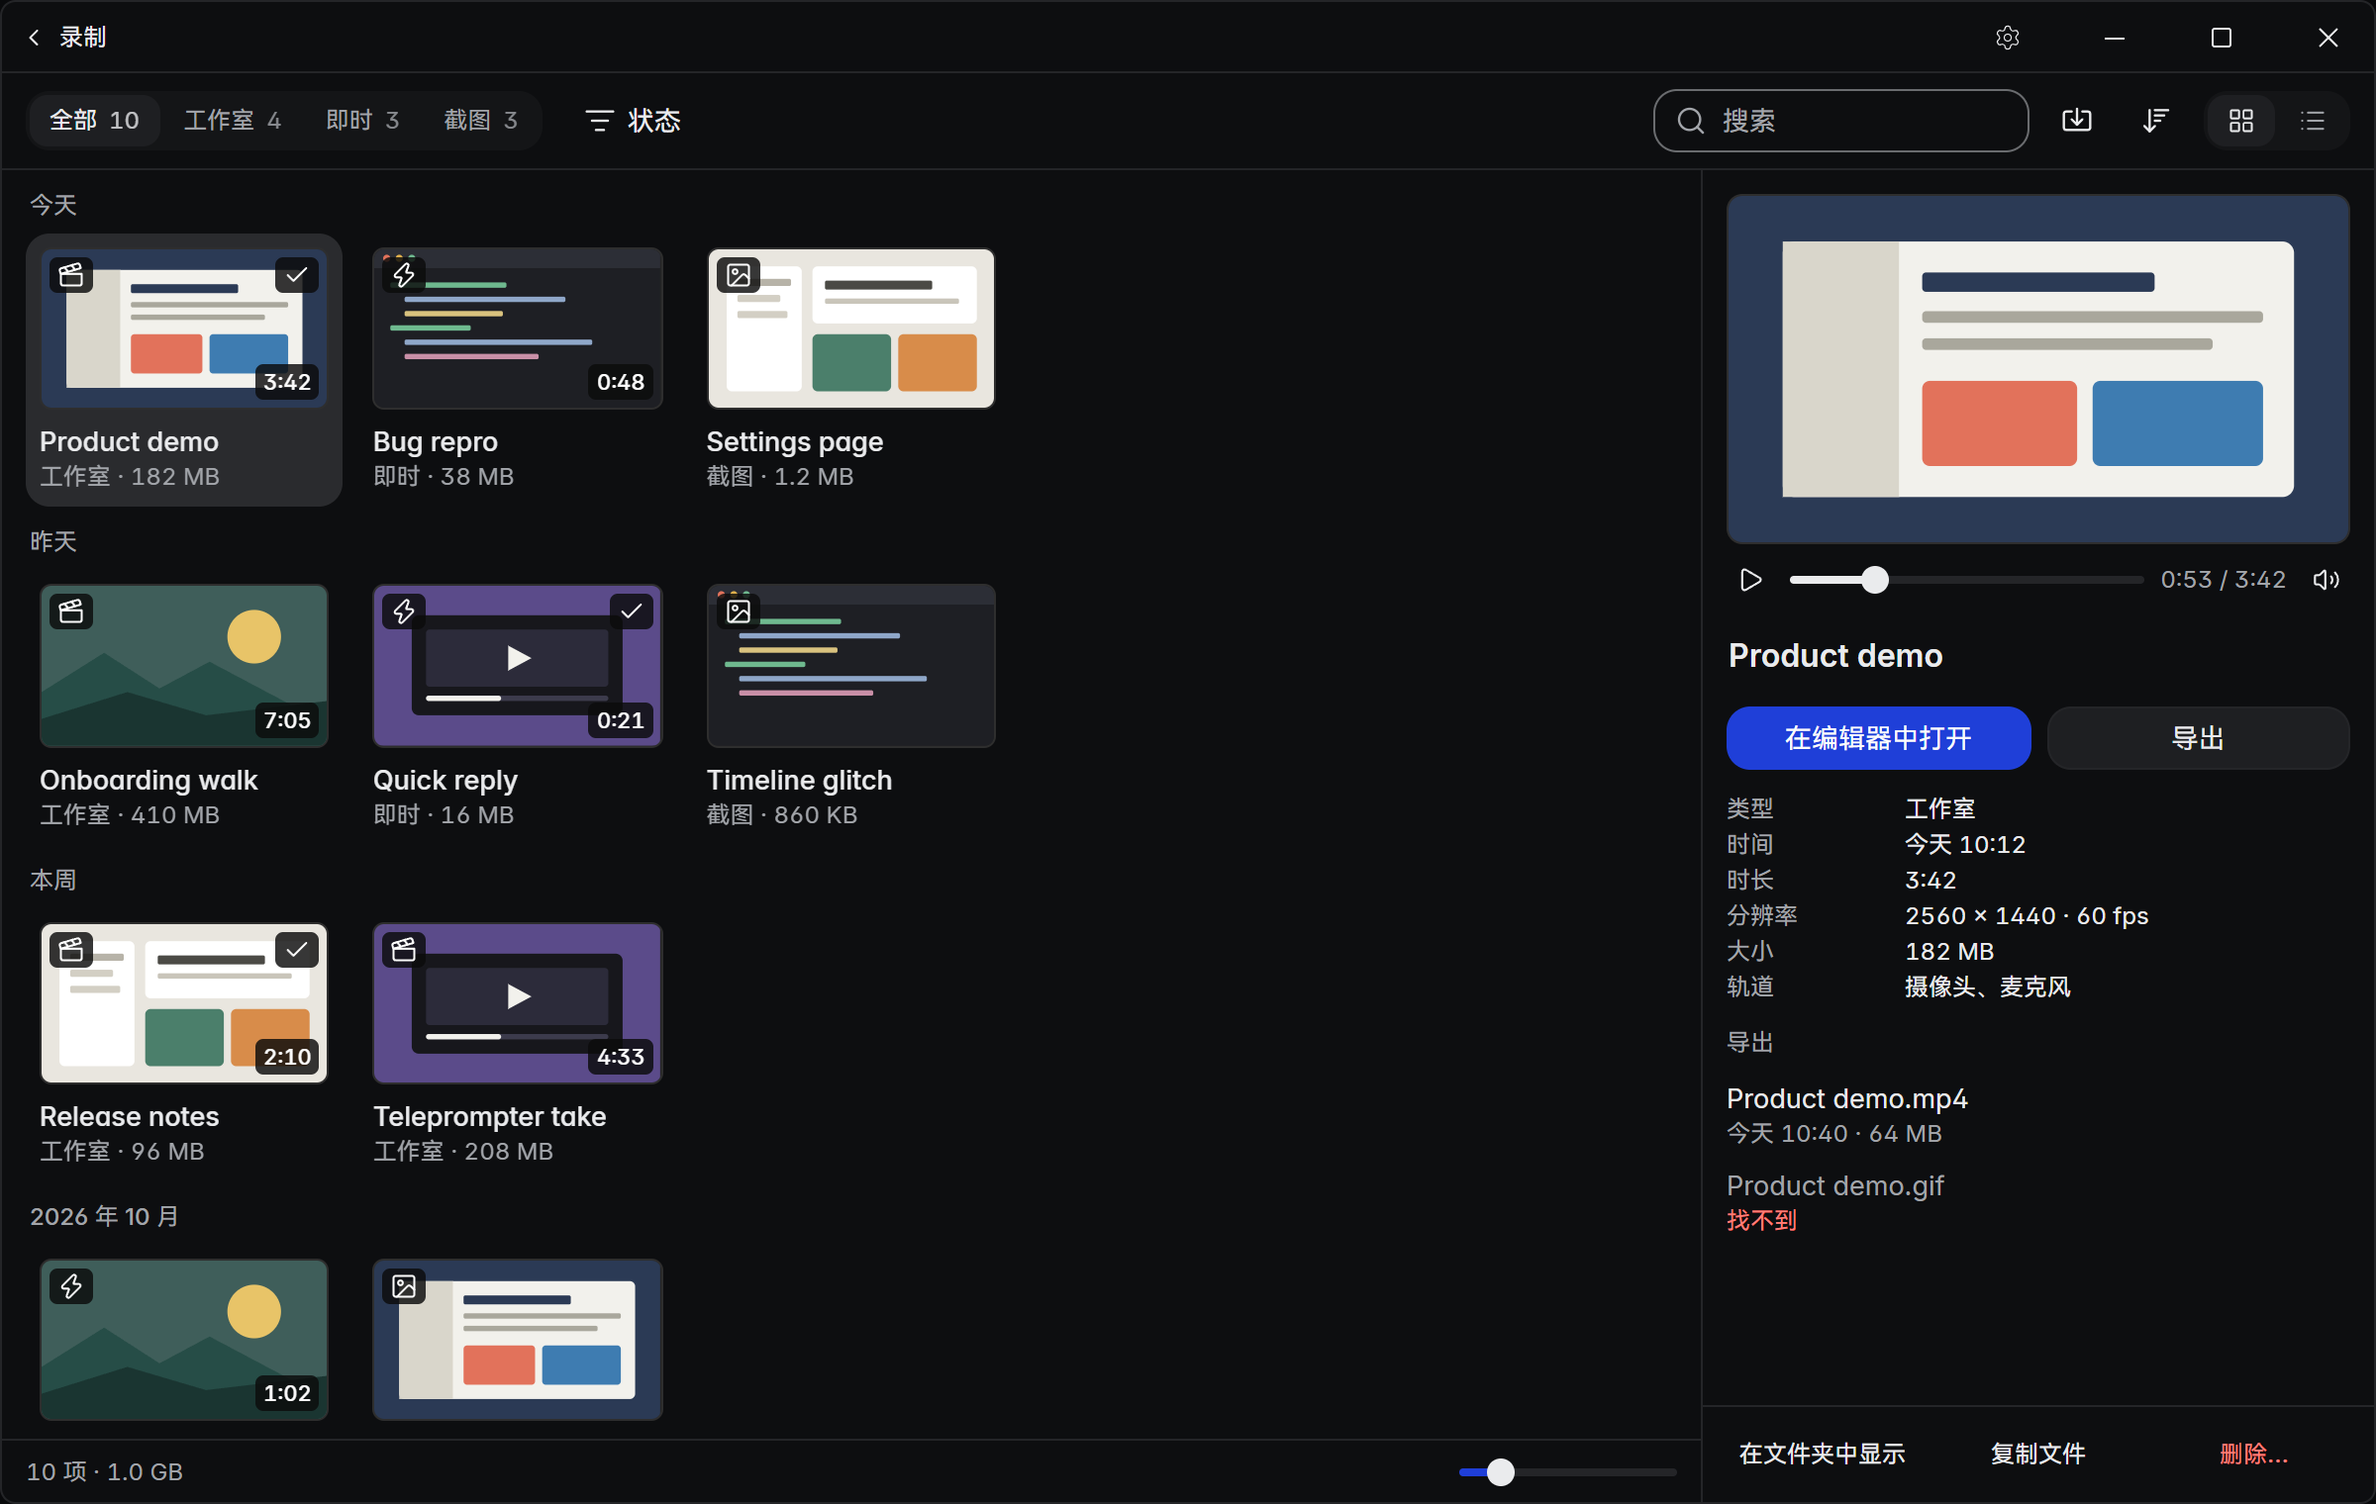
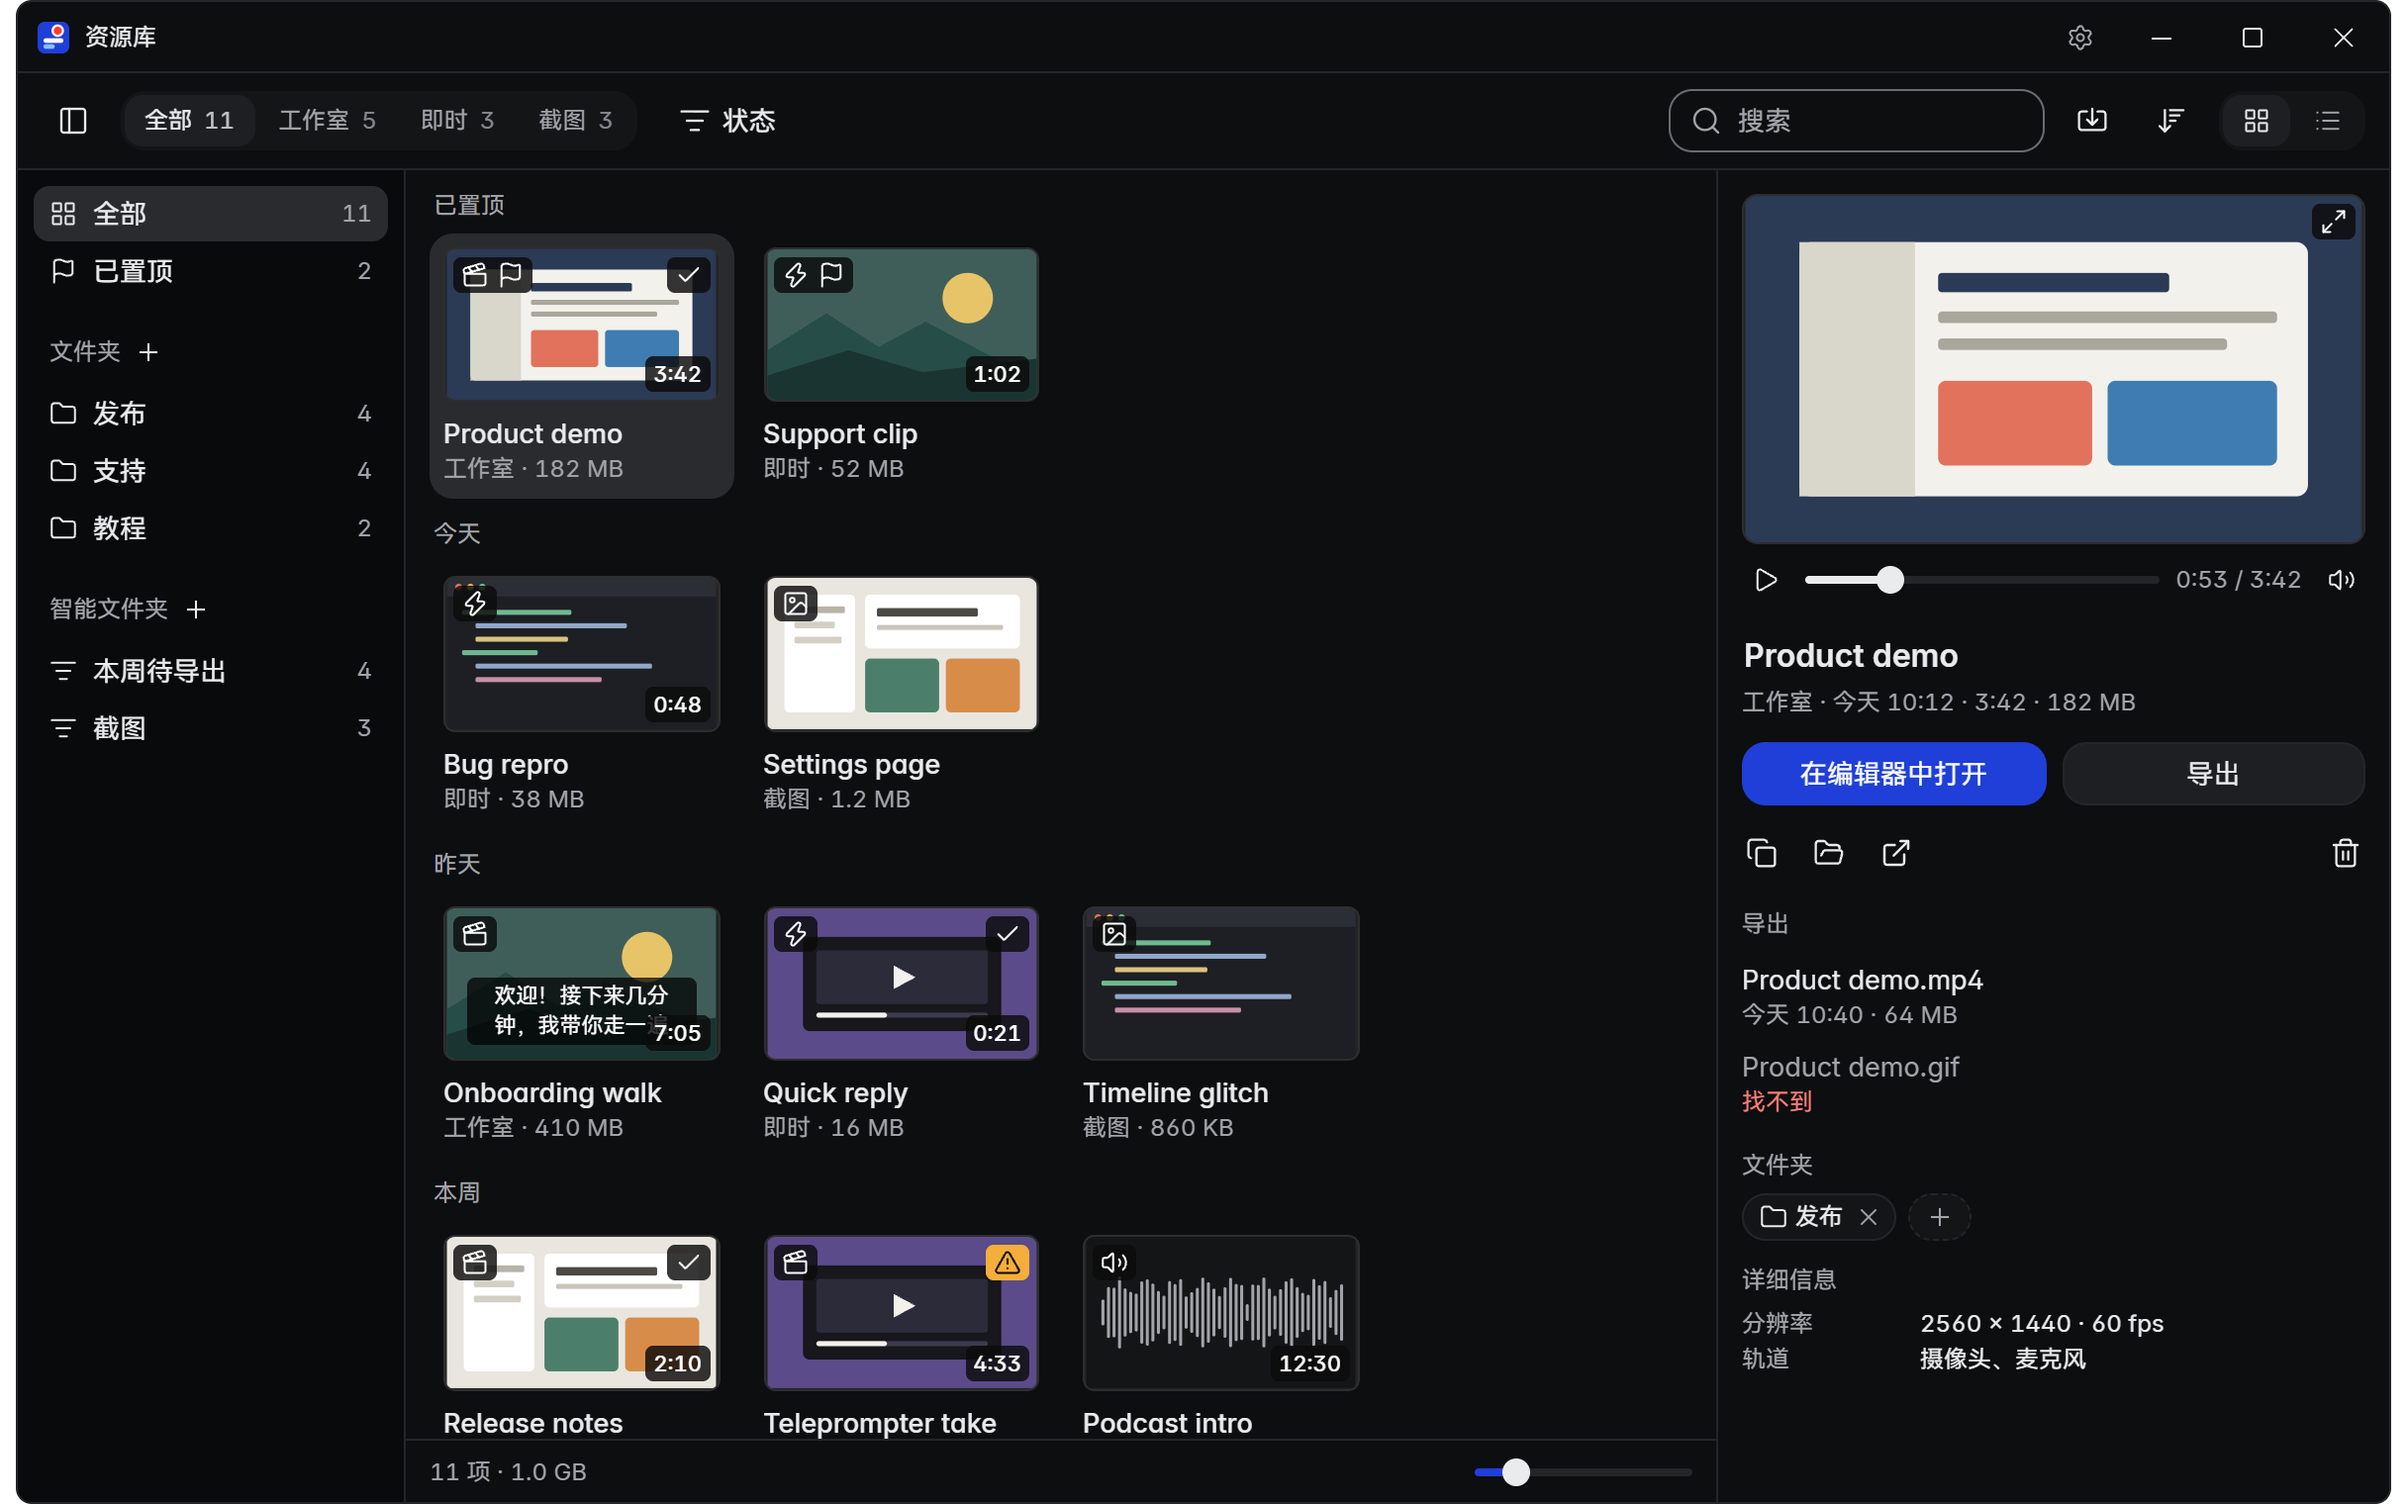
docs: README 按 1.1.0–1.1.4 补全功能列表，亮点图和首图按当前设计页重新渲染；新增 docs/brand/promo/render.py，一条命令重出 README 的全部图片
- 功能列表补上纯音频录制、录制中换设备、增强画质、分轨导出、文件夹和智能文件夹、命令面板、逐帧预览、压缩进度和取消、结果卡片（中英两份）
- .github/images 的六张亮点图、两张首图和 docs/brand/promo/parts 全部从 docs/design 设计页重新渲染
- docs/brand/promo/README.md 写明渲染方法

diff --git a/docs/brand/promo/render.py b/docs/brand/promo/render.py
@@ -1,0 +1,136 @@
+import pathlib
+import sys
+
+from PIL import Image
+from playwright.sync_api import sync_playwright
+
+REPO = pathlib.Path(__file__).resolve().parents[3]
+DESIGN = REPO / "docs" / "design"
+PROMO = pathlib.Path(__file__).resolve().parent
+PARTS = PROMO / "parts"
+IMAGES = REPO / ".github" / "images"
+
+MAIN = "surfaces/main-window-library.html"
+EDITOR = "surfaces/editor.html"
+INPUT = "surfaces/input-display.html"
+BAR = "surfaces/recording-controls.html"
+AREA = "surfaces/area-picker.html"
+SHOT = "surfaces/screenshot-editor.html"
+
+PAGE_ONLY = "html, body { background: transparent !important; }"
+BARE = (
+    PAGE_ONLY
+    + ".stage, .proto-stage, .desk { background: transparent !important; border-color: transparent !important;"
+    + " box-shadow: none !important; overflow: visible !important; }"
+    + "#stage > .ground, #stage > .block, #stage > .hud, #stage > .hint, .io-wrap > .grip { display: none !important; }"
+)
+
+
+def window_size(width, height):
+    return f"#states-stage .win {{ width: {width}px !important; height: {height}px !important; }}"
+
+
+def part(name, page, target, theme="dark", scale=2, css=BARE, clicks=(), languages=("zh", "en")):
+    return {
+        "folder": PARTS,
+        "name": name,
+        "page": page,
+        "target": target,
+        "theme": theme,
+        "scale": scale,
+        "css": css,
+        "clicks": clicks,
+        "languages": languages,
+        "pad": False,
+    }
+
+
+def picture(name, page, target, scale=2, css=BARE, clicks=()):
+    item = part(name, page, target, scale=scale, css=css, clicks=clicks, languages=("zh",))
+    item["folder"] = IMAGES
+    item["pad"] = True
+    return item
+
+
+PARTS_LIST = [
+    part("main-dark-{lang}", MAIN, ["#live-main"]),
+    part("main-light-{lang}", MAIN, ["#live-main"], theme="light"),
+    part("library-{lang}", MAIN, ["#states-stage .win"], css=BARE + window_size(900, 600)),
+    part("editor-{lang}", EDITOR, ["#ed"]),
+    part("bar", BAR, ["#dock .rb"], scale=3, languages=("zh",)),
+    part("keys", INPUT, ["#stage .io-wrap"], scale=4, languages=("zh",)),
+    part("pad", INPUT, ["#stage .io-wrap"], scale=4, clicks=['#tools [data-p="used:pad"]'], languages=("zh",)),
+]
+
+PICTURES = [
+    picture("input-display", INPUT, ["#stage", "#inspector"], css=PAGE_ONLY),
+    picture("transcript", EDITOR, ["#ed"], clicks=["#ed [data-act=side][data-v=transcript]"]),
+    picture("library", MAIN, ["#states-stage .win"], css=BARE + window_size(1200, 760)),
+    picture("screenshot-editor", SHOT, ["#stage > div"]),
+    picture("area-picker", AREA, ["#stage"], css=PAGE_ONLY),
+    picture("main-window", MAIN, ["#live-main"]),
+]
+
+
+def union(page, selectors):
+    boxes = [page.locator(selector).first.bounding_box() for selector in selectors]
+    left = min(box["x"] for box in boxes)
+    top = min(box["y"] for box in boxes)
+    right = max(box["x"] + box["width"] for box in boxes)
+    bottom = max(box["y"] + box["height"] for box in boxes)
+    scrolled = page.evaluate("() => [scrollX, scrollY]")
+    return {"x": left + scrolled[0], "y": top + scrolled[1], "width": right - left, "height": bottom - top}
+
+
+def pad_to_card(path):
+    image = Image.open(path).convert("RGBA")
+    width = max(image.width, round(image.height * 1.6))
+    height = max(image.height, round(image.width / 1.6))
+    card = Image.new("RGBA", (width, height), (0, 0, 0, 0))
+    card.paste(image, ((width - image.width) // 2, (height - image.height) // 2))
+    card.save(path)
+
+
+def capture(browser, item):
+    for language in item["languages"]:
+        context = browser.new_context(viewport={"width": 1760, "height": 1000}, device_scale_factor=item["scale"])
+        page = context.new_page()
+        page.goto((DESIGN / item["page"]).as_uri() + f"#theme={item['theme']}&lang={language}")
+        page.wait_for_timeout(500)
+        page.add_style_tag(content=item["css"])
+        for selector in item["clicks"]:
+            page.click(selector)
+        page.wait_for_timeout(400)
+        path = item["folder"] / (item["name"].format(lang=language) + ".png")
+        page.screenshot(path=str(path), clip=union(page, item["target"]), omit_background=True, full_page=True)
+        if item["pad"]:
+            pad_to_card(path)
+        context.close()
+        print(path.relative_to(REPO))
+
+
+def hero(browser):
+    for language, name in (("zh", "hero.png"), ("en", "hero.en.png")):
+        context = browser.new_context(viewport={"width": 1400, "height": 900}, device_scale_factor=2)
+        page = context.new_page()
+        page.goto((PROMO / "promo.html").as_uri() + f"#{language}")
+        page.wait_for_timeout(800)
+        page.locator("#hero").screenshot(path=str(IMAGES / name), omit_background=True)
+        context.close()
+        print(f".github/images/{name}")
+
+
+def main():
+    wanted = set(sys.argv[1:])
+    with sync_playwright() as playwright:
+        browser = playwright.chromium.launch(channel="chrome")
+        for item in PARTS_LIST + PICTURES:
+            if not wanted or item["name"].split("-{")[0] in wanted:
+                capture(browser, item)
+        if not wanted or "hero" in wanted:
+            hero(browser)
+        browser.close()
+
+
+if __name__ == "__main__":
+    main()

diff --git a/README.en.md b/README.en.md
@@ -47,7 +47,7 @@
 <tr>
 <td valign="top">
 <img src=".github/images/library.png" alt="Library" />
-<p><b>Library</b><br>Recordings and screenshots in one place. Filter, search, press Space to preview.</p>
+<p><b>Library</b><br>Recordings and screenshots in one place. Folders, filter, search, press Space to preview.</p>
 </td>
 <td valign="top">
 <img src=".github/images/screenshot-editor.png" alt="Screenshot annotation" />
@@ -78,8 +78,9 @@
 <td valign="top">
 
 - Display, window, area
+- Audio only, exported as MP3 or WAV
 - Camera overlay, background blur
-- Microphone + system audio
+- Microphone + system audio; switch devices while recording
 - Keyboard, mouse and gamepad input
 - On-screen drawing, chapter markers
 - Teleprompter
@@ -96,16 +97,19 @@
 - Edit by text, clear filler words
 - Arrows, boxes, highlights, numbered steps
 - Voice EQ, de-click
-- Style presets
+- Style presets, Enhance quality
 - Export MP4 (H.264 / HEVC / AV1), GIF
+- Export screen, camera and audio as separate tracks
 
 </td>
 <td valign="top">
 
 - Recordings, screenshots and exports together
-- Filter, search, sort
-- Space to preview, hover to scrub
-- Compress Instant recordings to HEVC
+- Folders, pins, smart folders
+- Filter, search, sort; Ctrl+K command palette
+- Space to preview, step by frame, drag to scrub
+- Compress to HEVC with visible progress; cancel any time
+- A result card after each recording to export or copy
 - Delete goes to the Recycle Bin
 - Files sit in `Videos\FrameEver`
 - [`frameever`](apps/cli/README.md) command line for scripts and AI agents

diff --git a/README.md b/README.md
@@ -47,7 +47,7 @@
 <tr>
 <td valign="top">
 <img src=".github/images/library.png" alt="资源库" />
-<p><b>资源库</b><br>录制和截图都在这里。筛选、搜索，按 Space 预览。</p>
+<p><b>资源库</b><br>录制和截图都在这里。文件夹、筛选、搜索，按 Space 预览。</p>
 </td>
 <td valign="top">
 <img src=".github/images/screenshot-editor.png" alt="截图标注" />
@@ -78,8 +78,9 @@
 <td valign="top">
 
 - 显示器、窗口、区域
+- 只录声音，导出 MP3 或 WAV
 - 摄像头叠加、背景虚化
-- 麦克风 + 系统声音
+- 麦克风 + 系统声音，录制中可换设备
 - 记录键盘、鼠标、手柄
 - 屏幕画笔、章节标记
 - 提词器
@@ -96,16 +97,19 @@
 - 按文字剪、清理语气词
 - 箭头、方框、高亮、步骤编号
 - 人声 EQ、去口水音
-- 样式预设
+- 样式预设、增强画质
 - 导出 MP4（H.264 / HEVC / AV1）、GIF
+- 分轨导出屏幕、摄像头和音频
 
 </td>
 <td valign="top">
 
 - 录制、截图、导出放在一起
-- 筛选、搜索、排序
-- Space 预览、悬停拖看
-- 即时录制压缩成 HEVC
+- 文件夹、置顶、智能文件夹
+- 筛选、搜索、排序，Ctrl+K 命令面板
+- Space 预览，逐帧看、拖着看
+- 压缩成 HEVC，进度看得见，可取消
+- 录完弹出结果卡片，直接导出或复制
 - 删除进回收站
 - 文件就在 `视频\FrameEver`
 - 命令行 [`frameever`](apps/cli/README.md)，给脚本和 AI 用

diff --git a/docs/brand/promo/README.md b/docs/brand/promo/README.md
@@ -26,4 +26,10 @@ When one of those surfaces changes, render the part again from its design page, 
 
 ## Rendering
 
-Capture the `#hero` element, 1280 × 720, at device scale 2 with a transparent page background, once per language. Headless Chrome does this through its DevTools protocol (`Page.captureScreenshot` with a clip); the browser's own "capture node screenshot" in DevTools gives the same result.
+`render.py` does all of it: the parts, the six pictures in the README's highlights table (`.github/images/*.png`, each padded to 8:5 on a transparent background) and the two hero pictures (the `#hero` element, 1280 × 720 at device scale 2). It needs Python with Playwright and Pillow, and Chrome.
+
+```powershell
+python docs/brand/promo/render.py
+```
+
+Pass names to render only some of them, for example `render.py library hero`.
